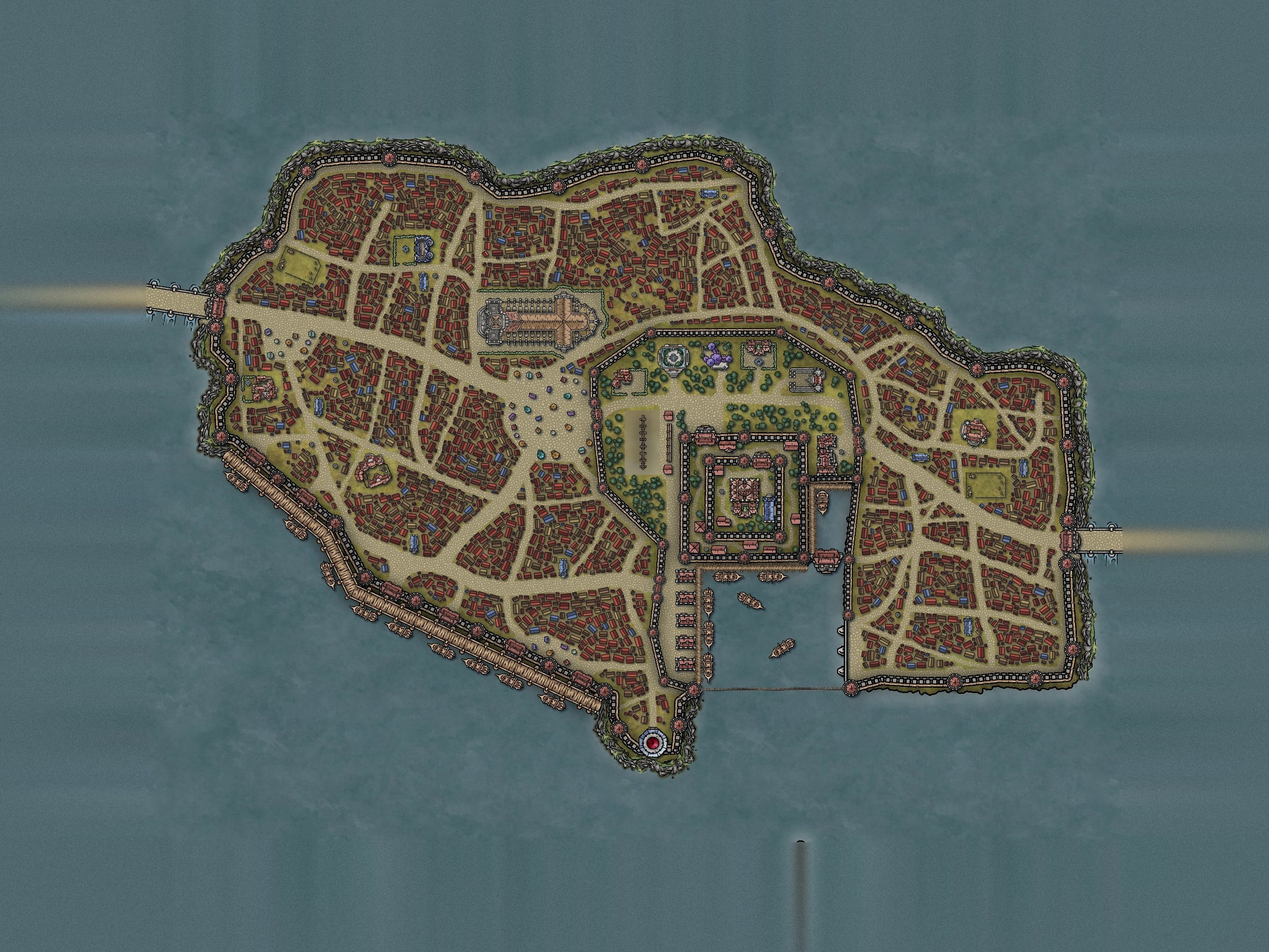
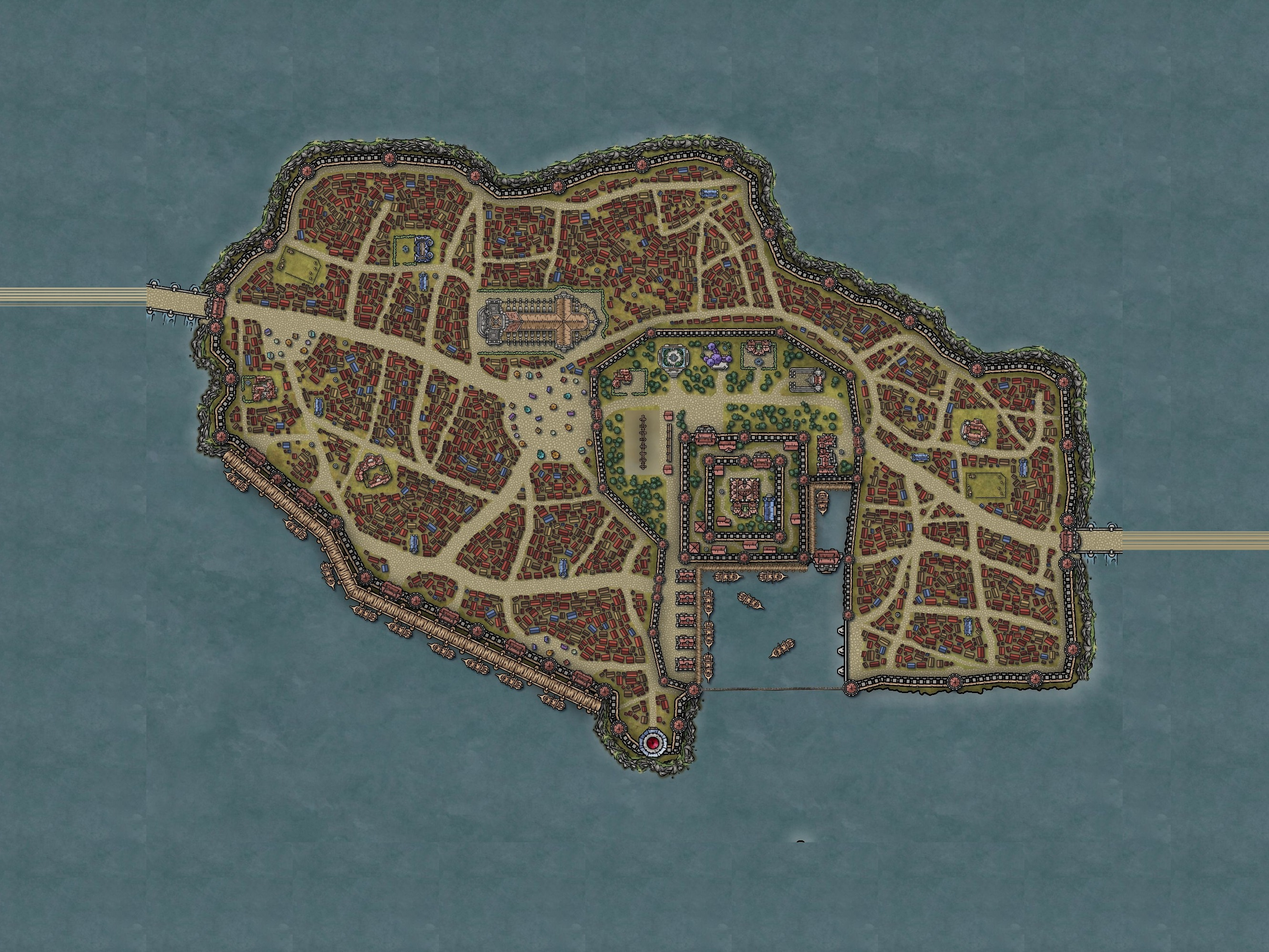
Rebuild Loreaon margin from the map's own pixels, and stop zoom-out showing empty stage
The margin is now copied from open sea in the map and the bridge rows
are carried straight out, with no blur. Zoom is limited so the padded
map always covers the screen.

Claude-Session: https://claude.ai/code/session_01MnqH2v6HsXtNWjpyFA9t82

Changed region(s): [[0.0, 0.2796, 0.1247, 0.3417], [0.873, 0.5591, 1.0, 0.5902]]

diff --git a/app.js b/app.js
@@ -11620,7 +11620,9 @@
     AT.k = Math.max(mn, Math.min(mk, AT.k));
     if (AT.bg) {
       // The padded background is the limit: pan only across its 15% margin, never past it.
-      var pd = 0.15, ox = pd * AT.W * AT.k, oy = pd * AT.H * AT.k, bw = AT.W * (1 + 2 * pd) * AT.k, bh = AT.H * (1 + 2 * pd) * AT.k;
+      var pd = 0.15, cover = Math.max(s.w / (AT.W * (1 + 2 * pd)), s.h / (AT.H * (1 + 2 * pd)));
+      AT.k = Math.max(AT.k, cover); // never zoom out far enough to show the empty stage behind the margin
+      var ox = pd * AT.W * AT.k, oy = pd * AT.H * AT.k, bw = AT.W * (1 + 2 * pd) * AT.k, bh = AT.H * (1 + 2 * pd) * AT.k;
       AT.x = bw >= s.w ? Math.min(ox, Math.max(s.w - bw + ox, AT.x)) : (s.w - AT.W * AT.k) / 2;
       AT.y = bh >= s.h ? Math.min(oy, Math.max(s.h - bh + oy, AT.y)) : (s.h - AT.H * AT.k) / 2;
       return;
